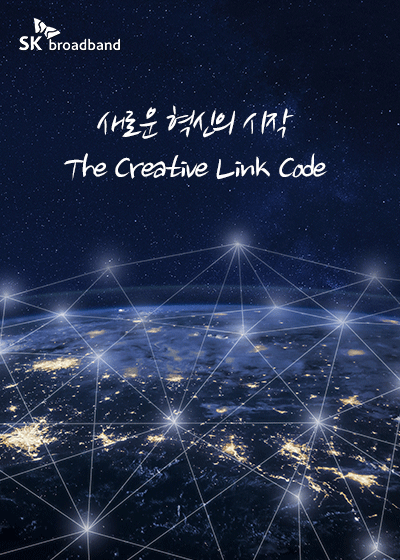
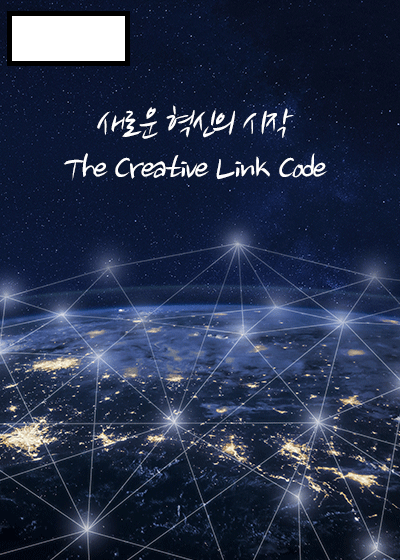
[feature] 이미지 수정 - skb 로고가 포함 된 이미지에 로고를 제거. - 포탈 메인에 skb 로고를 제거

Changed region(s): [[0.0, 0.0, 0.33, 0.1214]]

diff --git a/src/views/navigation/MenuNavigation.js b/src/views/navigation/MenuNavigation.js
@@ -11,7 +11,6 @@ import {
 } from '@ant-design/icons'
 import { userInfoFactory } from '../../api/factory/user_factory'
 import Icon from '@ant-design/icons'
-import logo from '../../assets/images/img_logo.png'
 import ko from '../../assets/images/ko.png'
 
 function MenuNavigation() {
@@ -140,12 +139,9 @@ function MenuNavigation() {
     <>
       <Row className="top-nav-header light">
         <Col span={6}>
-          <img
-            className="logo"
-            src={logo}
-            alt="logo"
-            onClick={redirectDashboard}
-          />
+          <Button className="logo" type="link" onClick={redirectDashboard}>
+            <h2>INSoft Cloud PC by React</h2>
+          </Button>
         </Col>
         <Col span={8} offset={2}>
           <Menu

diff --git a/src/styles/scss/_antd.scss b/src/styles/scss/_antd.scss
@@ -103,8 +103,10 @@ body {
   box-shadow: 0 1px 4px 0 rgb(0 21 41 / 12%);
   transition: background 0.3s, width 0.2s;
 
-  .logo {
+  .logo h2 {
     margin-left: 20px;
+    color: #ffffff;
+    font-weight: 700;
     cursor: pointer;
   }
 
